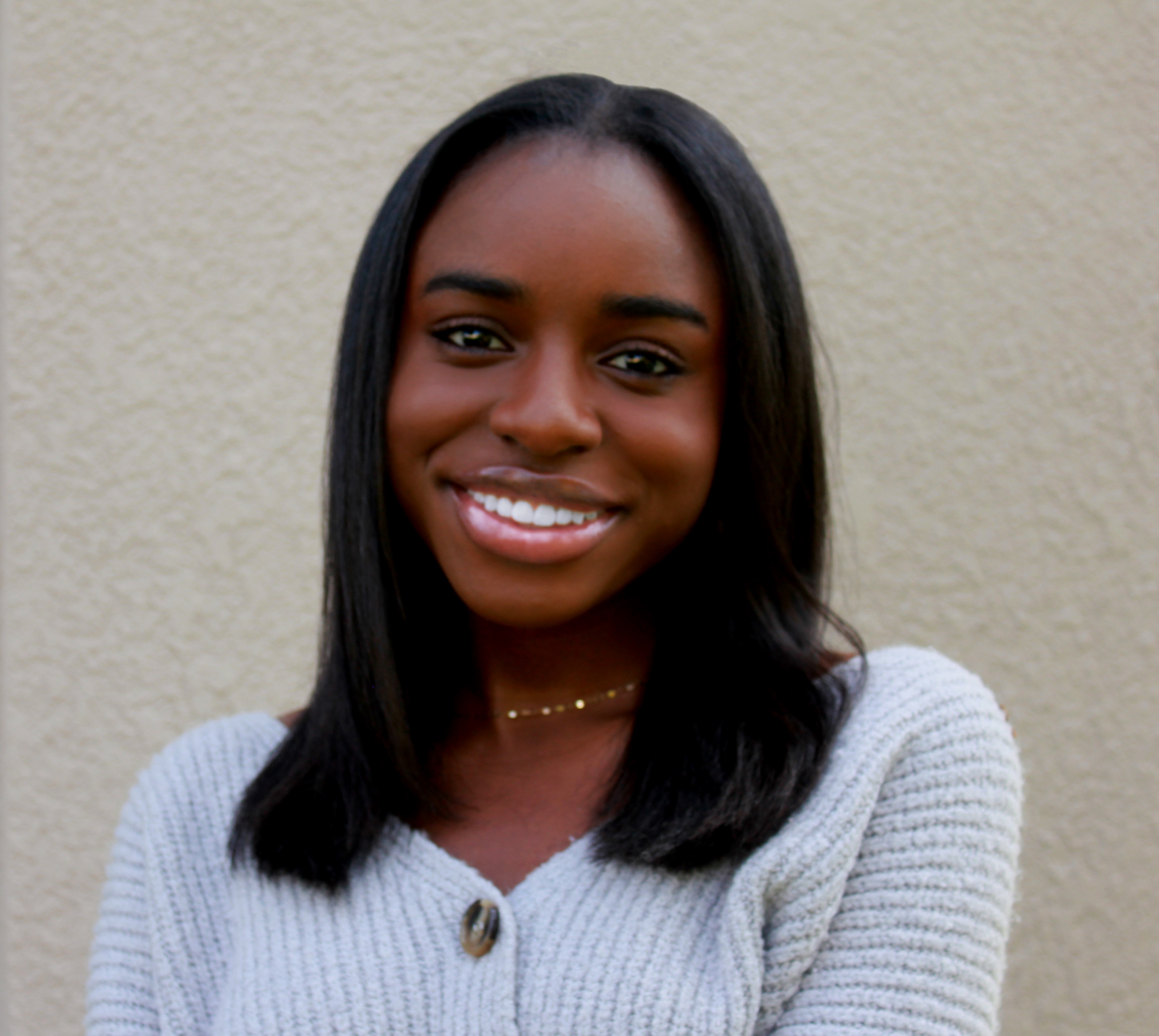
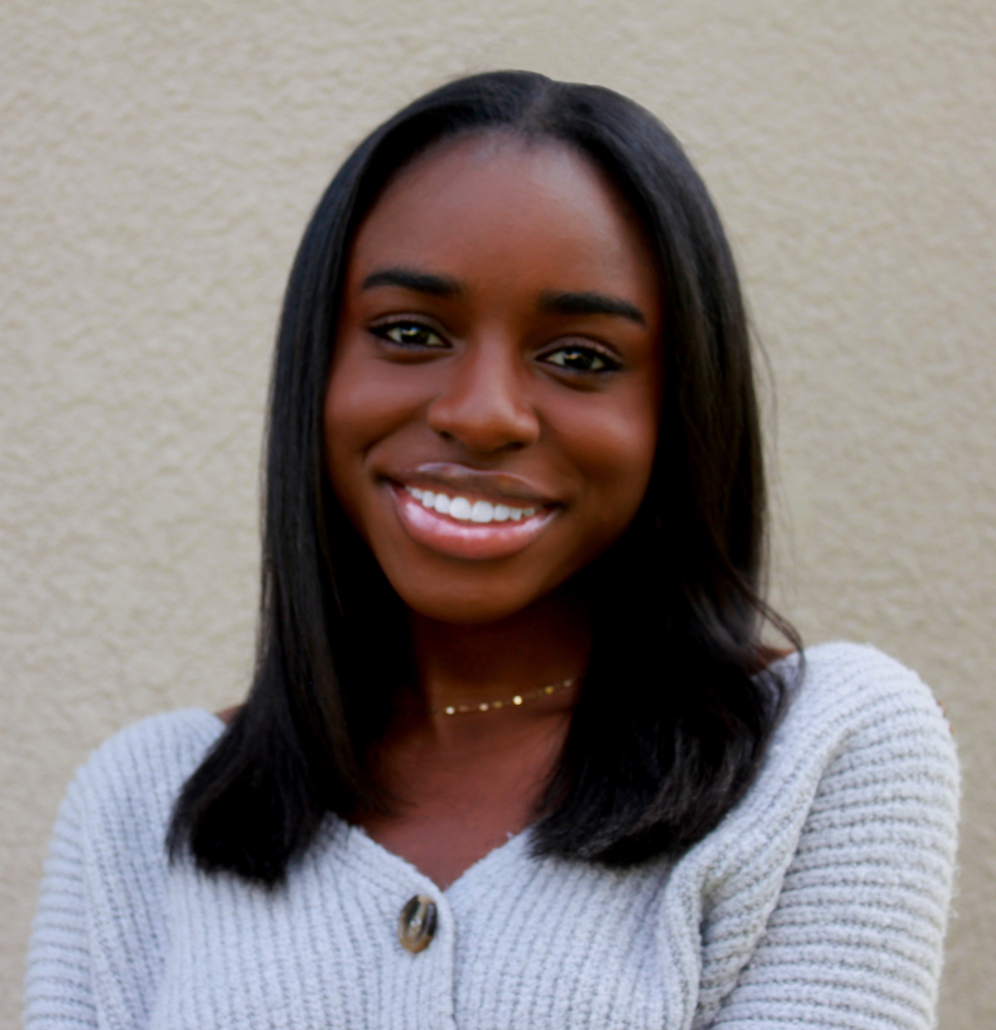
update aileen & weiyi

Changed region(s): [[0.0, 0.0622, 0.9913, 1.0], [0.4027, 0.6534, 0.4647, 0.7156], [0.4337, 0.0622, 0.4647, 0.0933]]

diff --git a/src/markdown-pages/teams.md b/src/markdown-pages/teams.md
@@ -124,6 +124,14 @@ members:
       linkedin: "https://www.linkedin.com/in/victoria-n-williamson/",
       instagram: "https://www.instagram.com/victdub/",
     },
+    {
+      name: "Weiyi Chen",
+      position: "Sponsorship Director",
+      major: "Computer Science",
+      image: "../images/current/weiyi.jpeg",
+      linkedin: "https://www.linkedin.com/in/weiyi-chen-/",
+      instagram: "https://www.instagram.com/sophiecheenn/",
+    },
   ]
 memberCount: 127
 directorCount: 15
